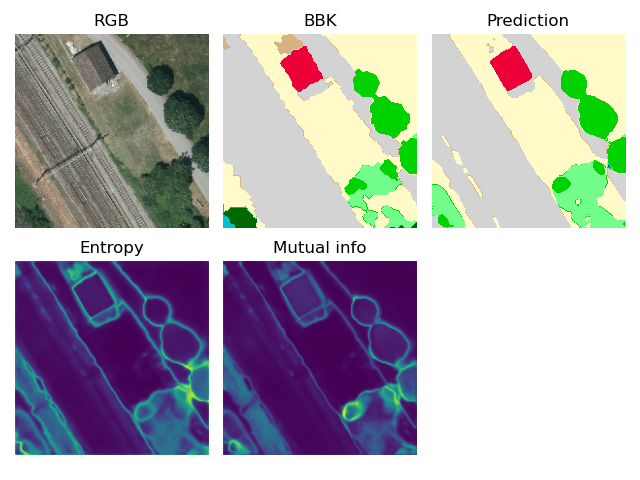
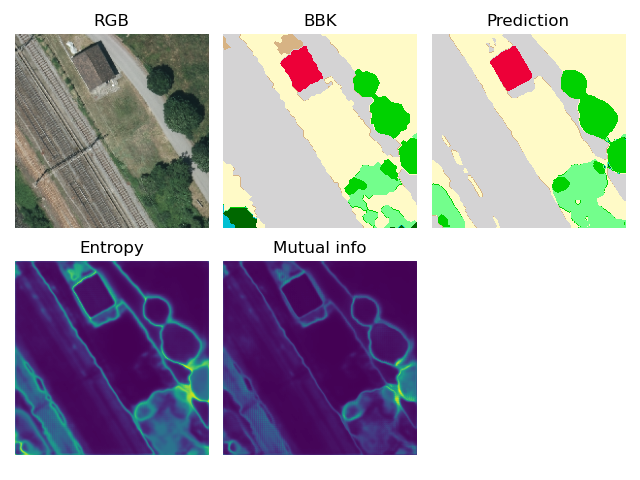
same with b32

diff --git a/example_data_bayesian.py b/example_data_bayesian.py
@@ -20,7 +20,7 @@ device = torch.device('cuda' if torch.cuda.is_available() else 'cpu')
 # dataset
 bbkd = BBKDataset(zone = ("alles",),split="train", augment=False)
 print(len(bbkd))
-dl = DataLoader(bbkd, batch_size=16, shuffle=False)
+dl = DataLoader(bbkd, batch_size=32, shuffle=False)
 x = next(iter(dl))
 
 # load model
